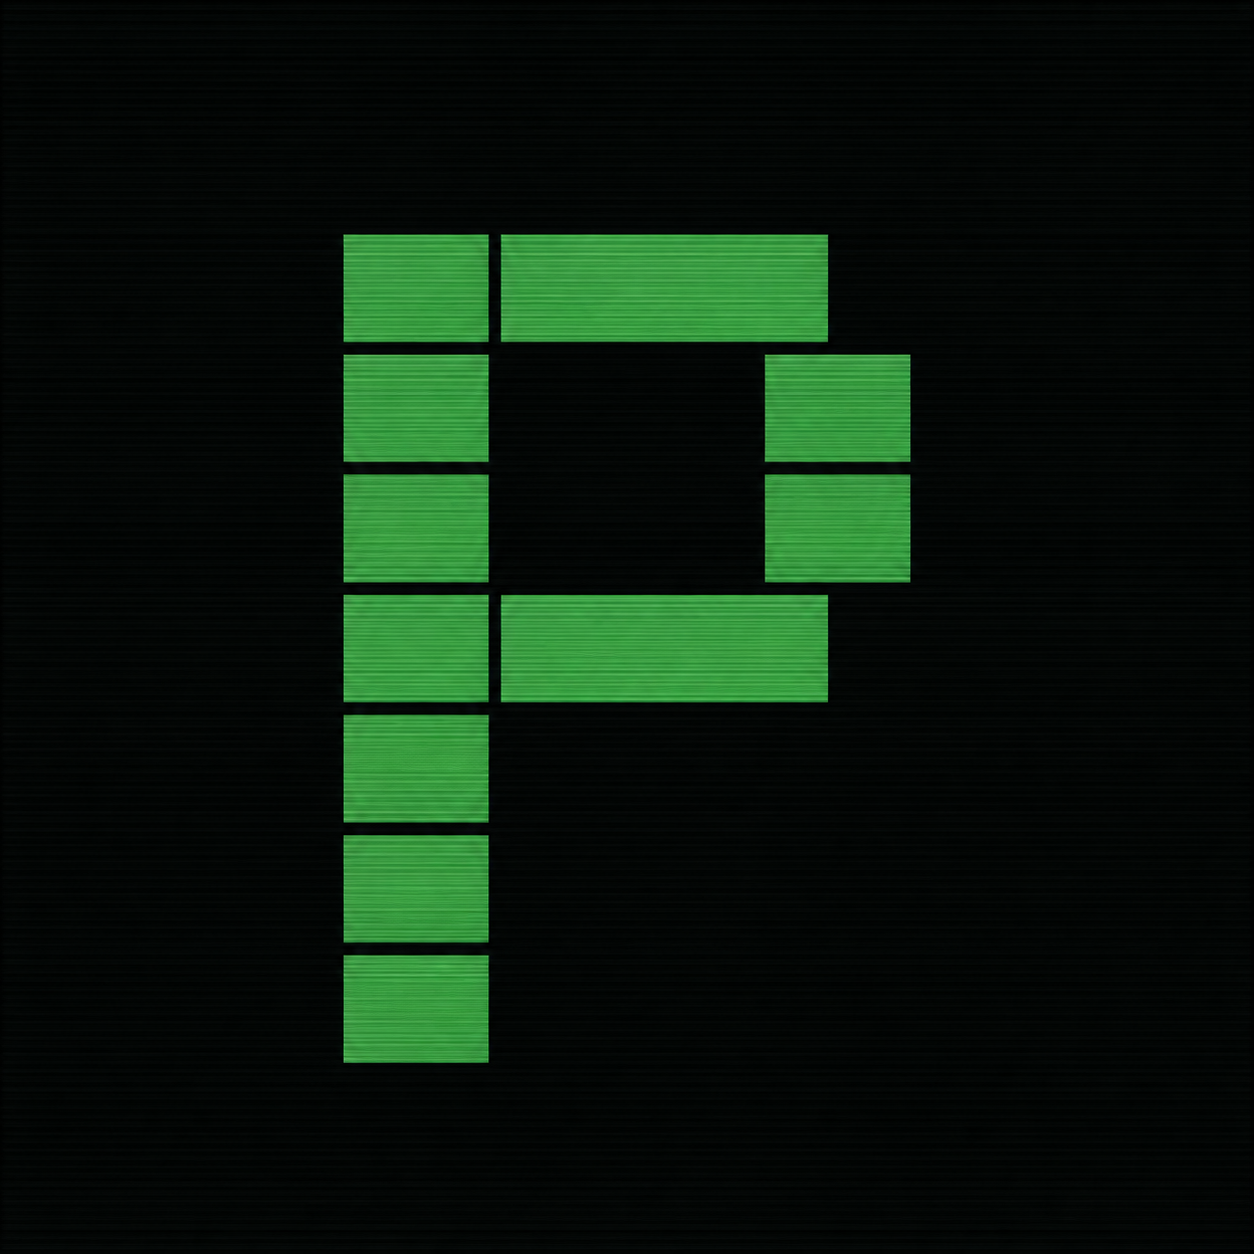
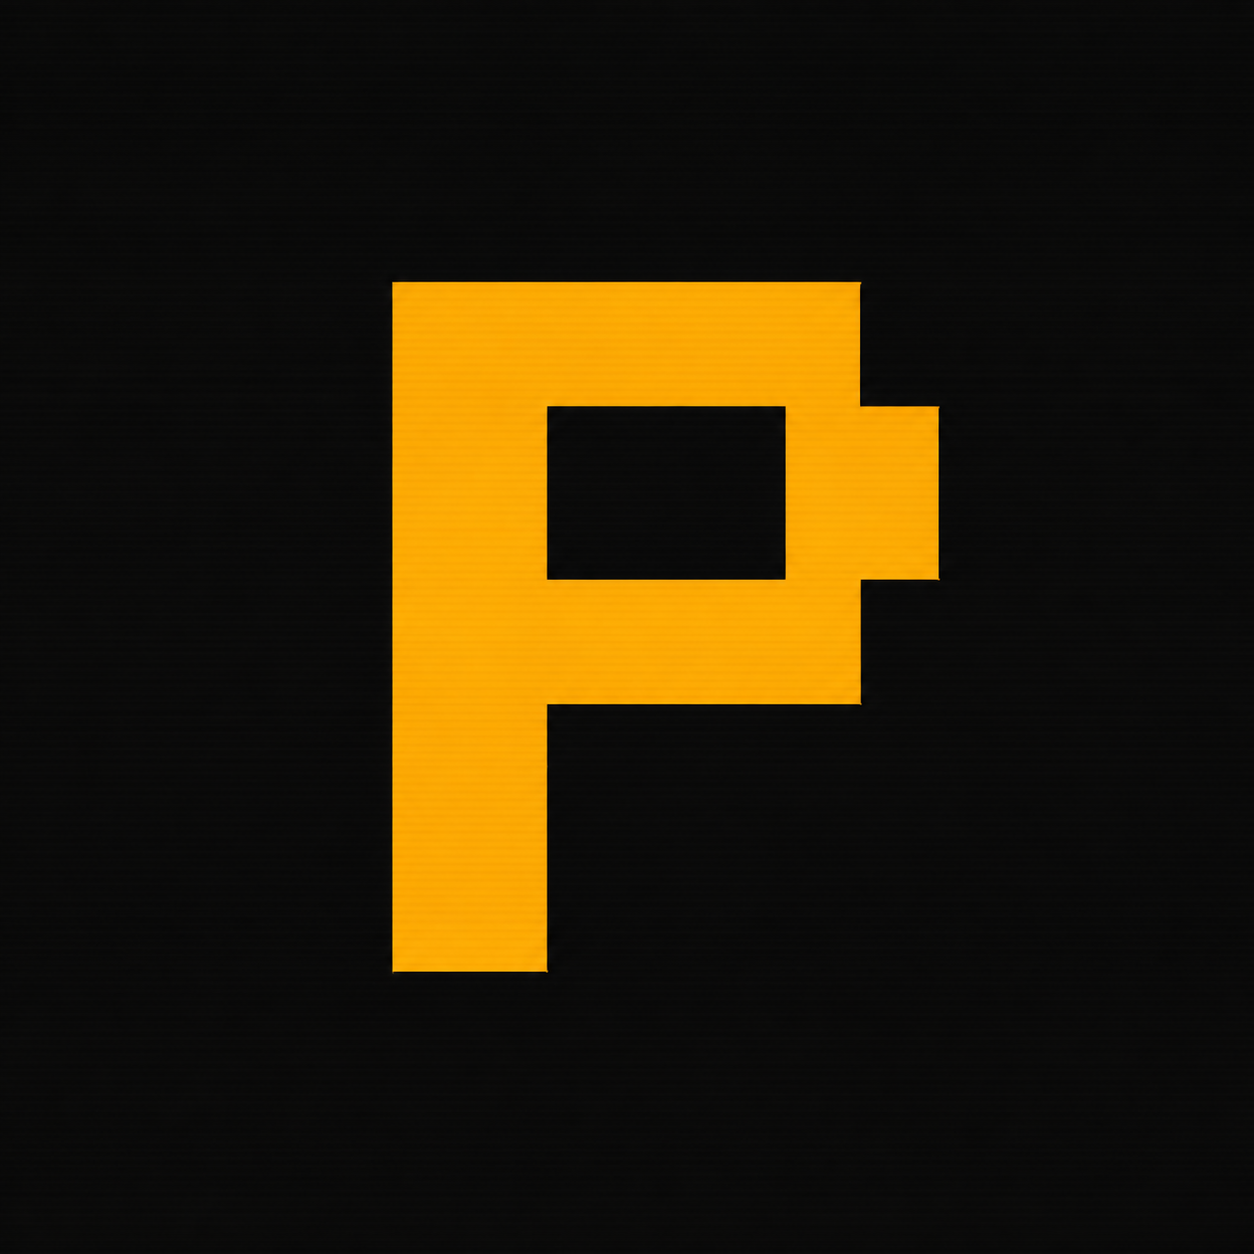
Amber phosphor palette

Changed region(s): [[0.2488, 0.1866, 0.7464, 0.8708]]

diff --git a/style.css b/style.css
@@ -1,17 +1,17 @@
 :root {
-  --bg:#0b0e0c;
-  --panel:#11150f;
-  --line:#233021;
-  --green:#4ade80;
-  --green-dim:#79906f;
-  --text:#d7e2d0;
+  --bg:#0e0c09;
+  --panel:#15120c;
+  --line:#332a1c;
+  --green:#ffb000;
+  --green-dim:#a08657;
+  --text:#e8ddc8;
   --mono:"IBM Plex Mono", monospace;
 }
 * { box-sizing:border-box; margin:0; }
 body { background:var(--bg); color:var(--text); font-family:"Inter", sans-serif; min-height:100vh; display:flex; align-items:center; justify-content:center; padding:24px; }
 .crt { width:100%; max-width:760px; }
 .crt::after { content:""; position:fixed; inset:0; pointer-events:none; background:repeating-linear-gradient(0deg, transparent 0 2px, rgba(0, 0, 0, 0.18) 2px 3px); }
-.term { background:var(--panel); border:1px solid var(--line); border-radius:6px; overflow:hidden; box-shadow:0 0 60px rgba(74, 222, 128, 0.07); }
+.term { background:var(--panel); border:1px solid var(--line); border-radius:6px; overflow:hidden; box-shadow:0 0 60px rgba(255, 176, 0, 0.07); }
 .term-bar { display:flex; align-items:center; gap:6px; padding:9px 12px; border-bottom:1px solid var(--line); }
 .dot { width:10px; height:10px; border-radius:50%; background:var(--line); }
 .term-title { margin-left:8px; font-family:var(--mono); font-size:12px; color:var(--green-dim); }
@@ -26,7 +26,7 @@ h1 { font-family:var(--mono); font-weight:600; font-size:40px; color:var(--green
 .hire p { max-width:54ch; line-height:1.65; margin-top:8px; }
 .honest { color:var(--green-dim); font-size:14px; }
 .cta { display:inline-block; margin-top:14px; font-family:var(--mono); font-size:14px; color:var(--bg); background:var(--green); padding:9px 16px; border-radius:4px; text-decoration:none; font-weight:500; }
-.cta:hover { background:#6ee7a0; }
+.cta:hover { background:#ffc233; }
 .cta:focus-visible { outline:2px solid var(--text); outline-offset:2px; }
 .cursor { animation:blink 1.1s steps(1) infinite; color:var(--green); }
 @keyframes blink { 50% { opacity:0; } }
